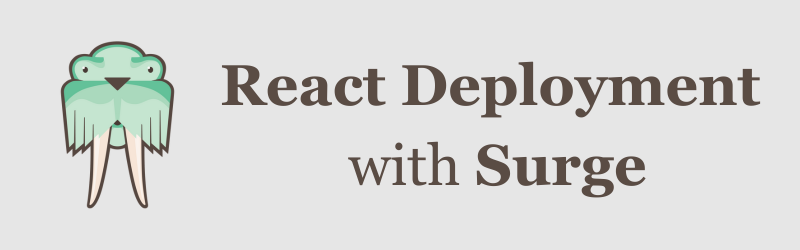
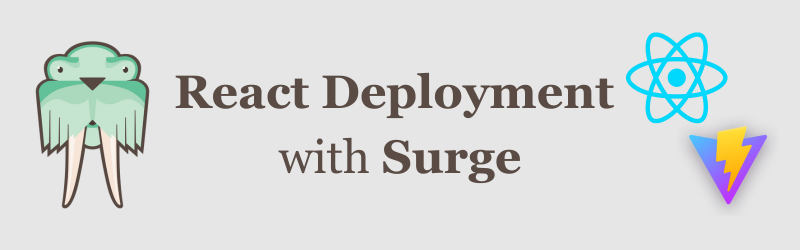
update resources

Changed region(s): [[0.0312, 0.112, 0.9688, 0.84], [0.3438, 0.56, 0.8125, 0.812], [0.8438, 0.504, 0.9688, 0.84]]

diff --git a/index.html b/index.html
@@ -17,7 +17,7 @@
 
         <p>
           This website will walk you through the steps to deploy a
-          <a href="https://vitejs.dev/">Vite</a> React app with
+          <a href="https://vitejs.dev/" id="vite-link">Vite</a> React app with
           <a href="https://surge.sh/">Surge</a>.
         </p>
 
@@ -51,10 +51,12 @@
         serves pre-built files to the browser, and all necessary data is
         included within the initial load, meaning it doesn't need to query a
         database or server for every user request. The dynamic interactions are
-        handled through JavaScript (<a href="https://en.wikipedia.org/wiki/Dynamic_web_page">client-side</a>) which manipulates the DOM
-        elements directly in the browser, without needing to fetch new pages or
-        data from a server. This results in faster load times and a smoother
-        user experience.
+        handled through JavaScript (<a
+          href="https://en.wikipedia.org/wiki/Dynamic_web_page"
+          >client-side</a
+        >) which manipulates the DOM elements directly in the browser, without
+        needing to fetch new pages or data from a server. This results in faster
+        load times and a smoother user experience.
       </p>
 
       <p>This also means that we can use Surge to deploy it!</p>
@@ -241,7 +243,8 @@
       <p>
         Obviously replace any <b>< ></b> in the above script with your own
         information. Pay close attention to the two URLs in the script above.
-        <em><b>They should be in single quotes</b></em>.
+        <em><b>They should be in single quotes</b></em
+        >.
       </p>
 
       <p>
@@ -271,7 +274,8 @@
 
       <h2>Recap</h2>
       <p>
-        In this walkthrough, you successfully deployed your Vite React app to Surge.
+        In this walkthrough, you successfully deployed your Vite React app to
+        Surge.
       </p>
 
       <p>
@@ -282,7 +286,9 @@
 
       <h2>Resources</h2>
       <ul>
-        <li><a href="https://vitejs.dev/guide/">Vite Docs</a></li>
+        <li>
+          <a href="https://vitejs.dev/guide/" id="vite-link">Vite Docs</a>
+        </li>
         <li>
           <a href="https://surge.sh/help/getting-started-with-surge"
             >Surge Docs</a
@@ -291,9 +297,17 @@
       </ul>
       <br />
       <center>
-        <a href="https://surge.sh">
-          <img src="./images/logo.png" alt="surge" />
-        </a>
+        <div class="logos">
+          <a href="https://react.dev/">
+            <img src="./images/react.png" alt="react" id="react" />
+          </a>
+          <a href="https://surge.sh">
+            <img src="./images/logo.png" alt="surge" id="surge" />
+          </a>
+          <a href="https://vitejs.dev/">
+            <img src="./images/vite.png" alt="vite" id="vite" />
+          </a>
+        </div>
       </center>
     </main>
   </body>

diff --git a/style.css b/style.css
@@ -30,6 +30,14 @@ main {
   margin: 2vh 2vw;
 }
 
+#vite-link {
+  color: #b077fc;
+}
+
+#vite-link:hover {
+  color: #4cc3fd;
+}
+
 a {
   text-decoration: none;
   color: #2e7254;
@@ -135,3 +143,25 @@ hr {
   width: 600px;
   border: 2px solid #2e7254;
 }
+
+.logos {
+  display: flex;
+  flex-direction: row;
+  justify-content: space-evenly;
+  align-items: center;
+
+  max-width: 98vw;
+}
+
+#react {
+  max-width: 20vw;
+}
+
+#surge {
+  max-width: 20vw;
+}
+
+#vite {
+  max-width: 20vw;
+}
+

diff --git a/script.js b/script.js
@@ -11,7 +11,7 @@ const copy = (element) => {
   let boxImg = shell.querySelector('img')
 
   if (shell.querySelector('code').innerText === 'SURGE_LOGIN=') {
-    navigator.clipboard.writeText('SURGE_LOGIN= \n  SURGE_TOKEN=')
+    navigator.clipboard.writeText('SURGE_LOGIN=\nSURGE_TOKEN=')
   } else {
     navigator.clipboard.writeText(shell.querySelector('code').innerText)
   }
